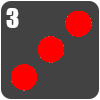
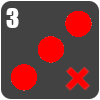
Add files via upload
more stuff and images

Changed region(s): [[0.63, 0.66, 0.9, 0.93]]

diff --git a/guiWhy.java b/guiWhy.java
@@ -42,6 +42,7 @@ public class guiWhy extends Application // Start of Class
     private Label rollVal = new Label("You rolled a: "); // value of the roll
     private Label curPlayer = new Label("Player "+(playerobj.getCurPlayer()+1)+"'s Turn"); // who the current player is
     private Label numRolls = new Label("Rolls Left: "+ playerobj.getreroll()); // number of rolls available per turn
+    private Label availableChoice = new Label("");
     private TextField input = new TextField("# of players?"); // field for the number of players playing
     private String [] options = new String[] {"Total of Aces: 1's","Total of Twos: 2's","Total of Threes: 3's", "Total of Fours: 4's",
     "Total of Fives: 5's", "Total of Sixes: 6's", "3 of A Kind | Total of All 5 Dice", "4 of A Kind | Total of All 5 Dice", "Full House | 25 points","Small Straight | 30 points", "Large Straight | 40 points", 
@@ -142,7 +143,7 @@ public class guiWhy extends Application // Start of Class
         HBox bottomBorder = new HBox();
         bottomBorder.setSpacing(10);
         bottomBorder.setPadding(new Insets(10,10,10,10));
-        bottomBorder.getChildren().addAll(numberPlayers, roll, rollVal, numRolls);
+        bottomBorder.getChildren().addAll(numberPlayers, roll, rollVal, numRolls, availableChoice);
 
         //LAYOUT 2 grid and border
         GridPane eastBorder = new GridPane(); // scene 2 element put into a FlowPane
@@ -241,7 +242,7 @@ public class guiWhy extends Application // Start of Class
         return;
       }
 
-      if(playerobj.getreroll()!=0)
+      //if(playerobj.getreroll()!=0)
       numRolls.setText("Rolls Left: "+ playerobj.getreroll());
 
       for(int i = 0; i < 5; i++) // set roll label to sorted roll
@@ -297,7 +298,11 @@ public class guiWhy extends Application // Start of Class
       dice4.setGraphic(new ImageView(diceNullImg));
       dice5.setGraphic(new ImageView(diceNullImg));
 
+        availableChoice.setText("");// SET LABEL TO ""
+
        }
+       else
+       availableChoice.setText("Option Already Taken!");// SET LABEL TO OPTION TAKEN!
     }
 
   }
